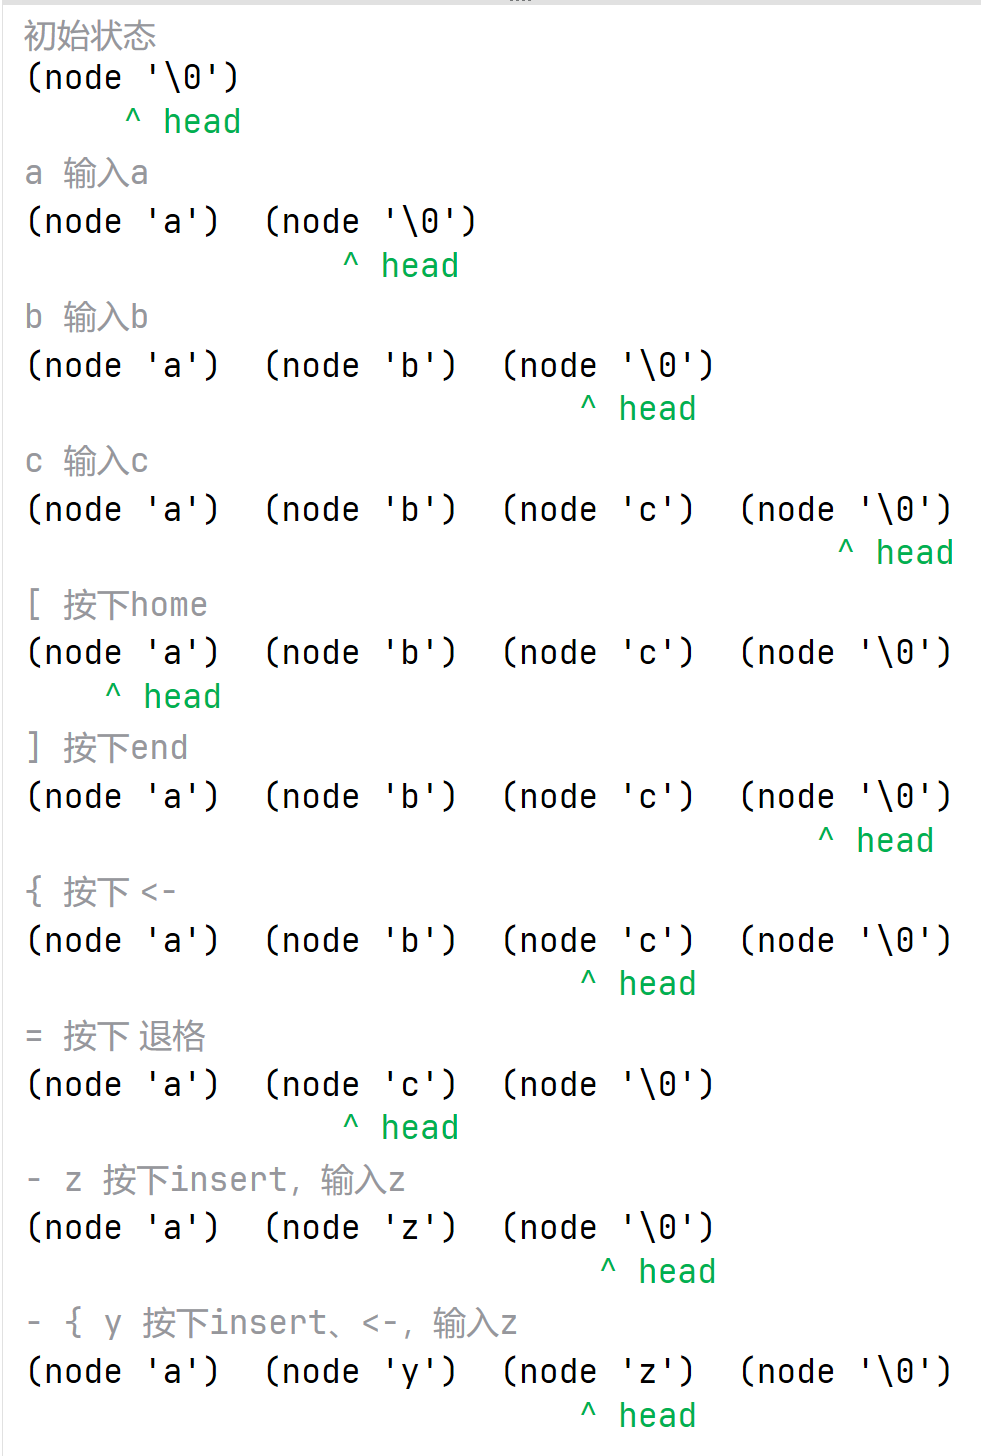
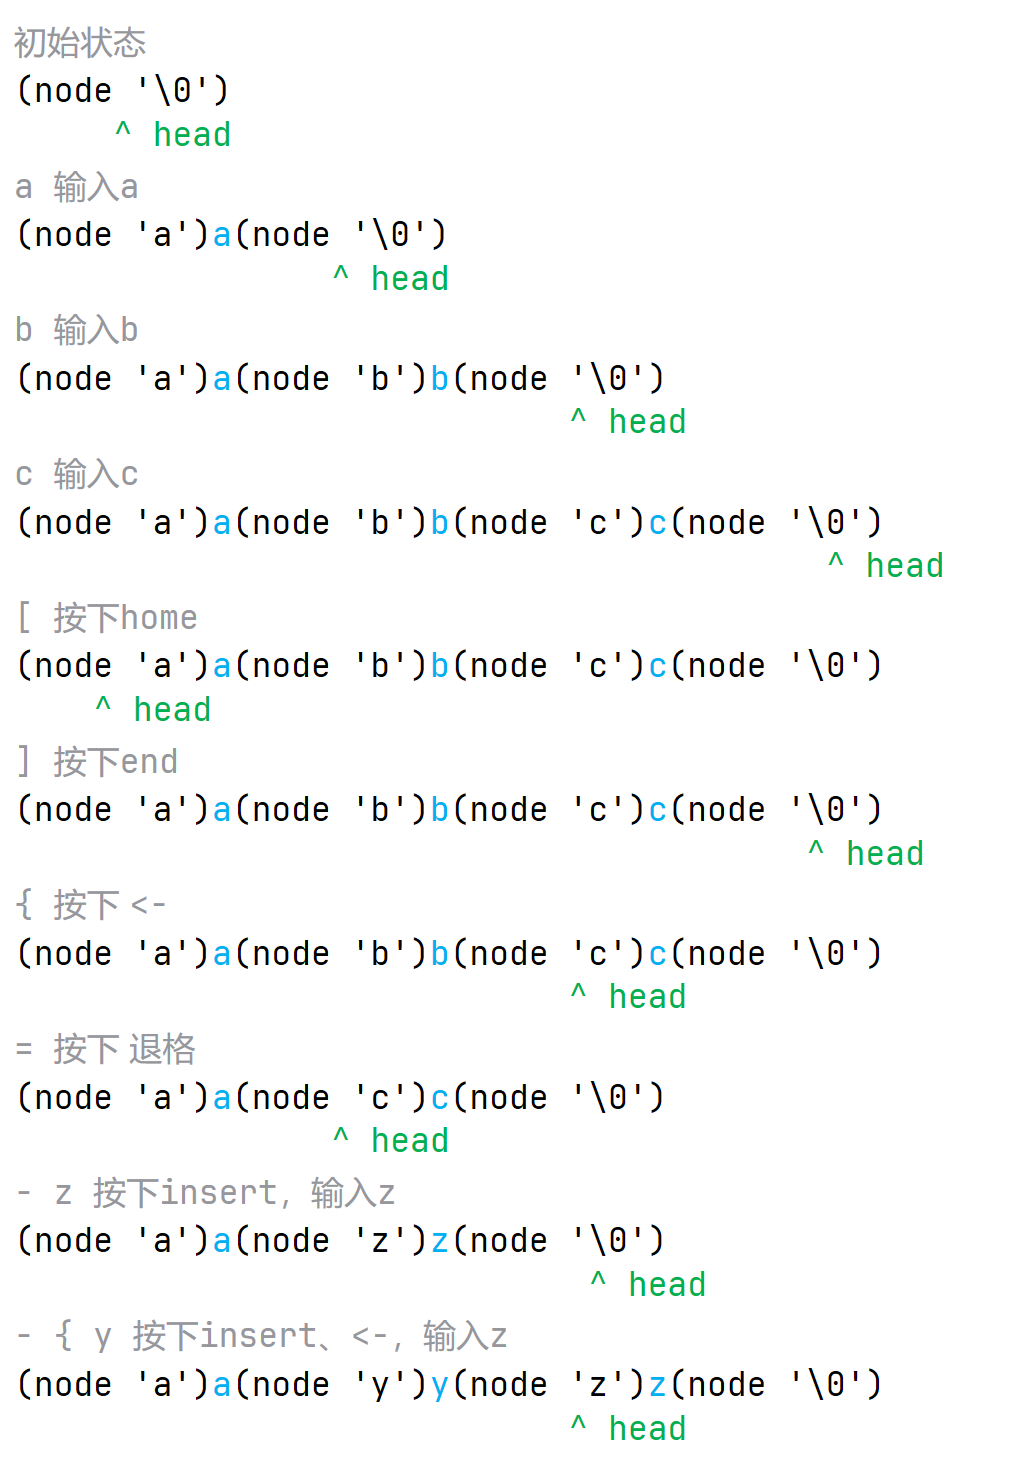
上传实验八题解。

diff --git a/实验8/readme.md b/实验8/readme.md
@@ -1,6 +1,84 @@
-懒癌犯了  ¯\\\_(ツ)_/¯
+懒癌犯了 ¯\\\_(ツ)_/¯
 
+### 第一题
 
-第九题其中一种理解方式(示例代码使用的方式)图示  
-head为表示光标位置的指针
+这题要求计算收支，只需要开一个数组，每个人用一个数字表示收支情况，每次如果是自己买饭，就相当于别人欠自己五顿饭钱；反之，就是自己欠别人一顿饭钱。
+
+---
+
+### 第二题
+
+这道题与[实验七第15题](./../实验7/readme.md#第十五题)类似，使用同样的方式枚举左上角的位置，和输入的矩阵进行比较。
+
+---
+
+### 第三题
+
+这道题要求进行数据统计。  
+把输入的记录按照园区分类存储，进行统计就可以了  
+其中一个难点是字母和数字中间没有空格，有如下几种方法：
+
+- 先读取一个字符，判断出园区，用一次或数次`getchar()`读取剩余字母，再用`scanf`输入(示例方法)
+- 用`%s`读取所有内容，再开一个字符数组，把字母部分和数字部分分开。
+    ```c++
+    char input[50], string[10];
+    scanf("%s", input);
+    for (int i = 0; input[i] >= 'a' && input[i] <= 'z'; i++) {
+        string[i] = input[i];
+        input[i] = ' ';
+    }
+    int number;
+    sscanf(input, "%d", &number); 
+    ```
+
+---
+
+### 第四题
+
+计算等待时间期望。  
+可以直接枚举所有可能的到达时间，也可以用数学方法做。  
+注意考虑端点情况，多试试不同情况的数据。
+
+---
+
+### 第五题
+
+输出缩放后的logo。  
+直接找规律，按照规律输出就可以了，主要就是比较麻烦，细心一点就可以了。
+
+---
+
+### 第六题
+
+要求最早解封的日期。  
+首先，注意下面给出的过去新增病例，第一个是今天、第二个是昨天、第三个是前天...  
+然后就只需要根据过去的数据，推算出解封的天数，再把天数加到今天的日期上就可以了。
+
+---
+
+### 第七题
+
+给出八个角色，判断哪些角色没有出现过。  
+有一个取巧的方法是只判断输入的前两个字符（八个职业没有前两个字符完全一样的）~~doge~~  
+正经的要把一行字符取出`:`前面的部分，可以参考上面[第三题](#第三题)的方式，只要修改一下循环结束条件就可以了。
+
+---
+
+### 第八题
+
+**要求使用结构体数组存储数据**(不要忘了)。把通讯录按照年龄排序后输出。  
+这里可以发现直接把生日按照输入的方式转为int排序就可以了。排序之后直接输出就行。
+
+---
+
+### 第九题
+
+**要求使用链表**。模拟文本编辑。  
+这题主要是理解如何用链表表示字符串，然后针对每种操作进行处理即可。  
+这里我使用的节点负责存储下一个、上一个节点的地址，以及下一个字符（节点表示光标可能存在的位置）。
+然后额外使用一个指针指向开头、一个指向末尾，一个(下文的head)指向当前光标的位置。
+下图为执行过程中的变化图解，黑色代表每个节点，蓝色为此时实际的字符串，绿色为head指向的位置。
 ![图片](pictures/img.png)
+
+想明白怎么用链表来表示，具体的实现就比较简单了。
+主要的注意点就是理清楚输入字符时的逻辑，注意判断是否为insert状态。
